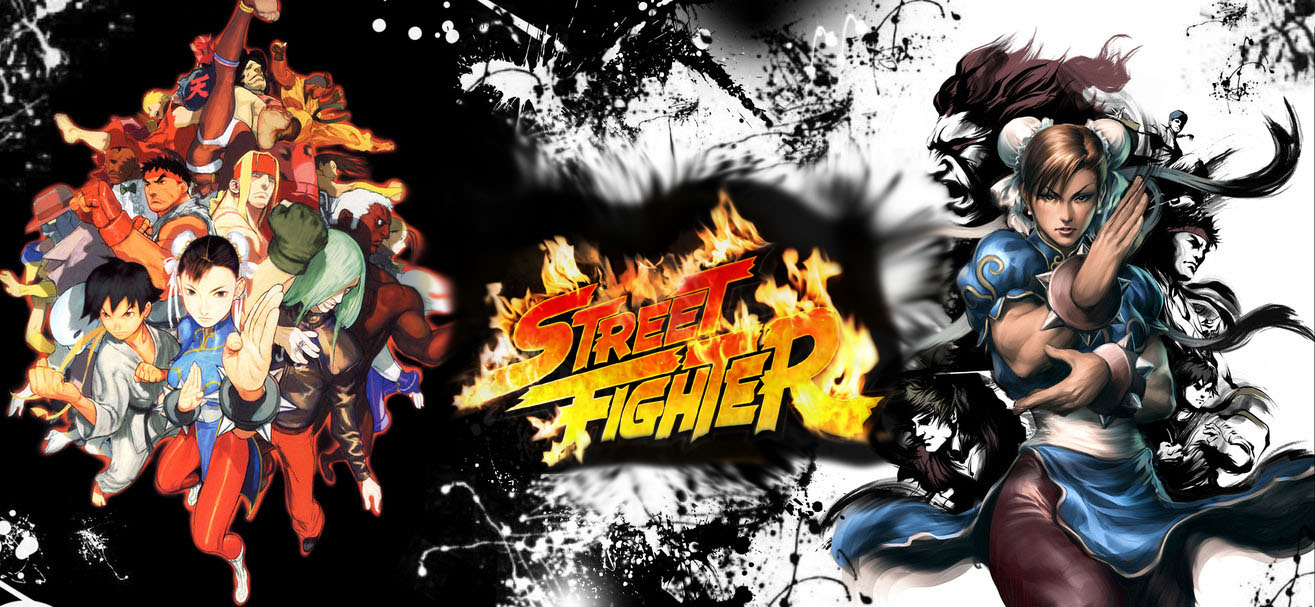
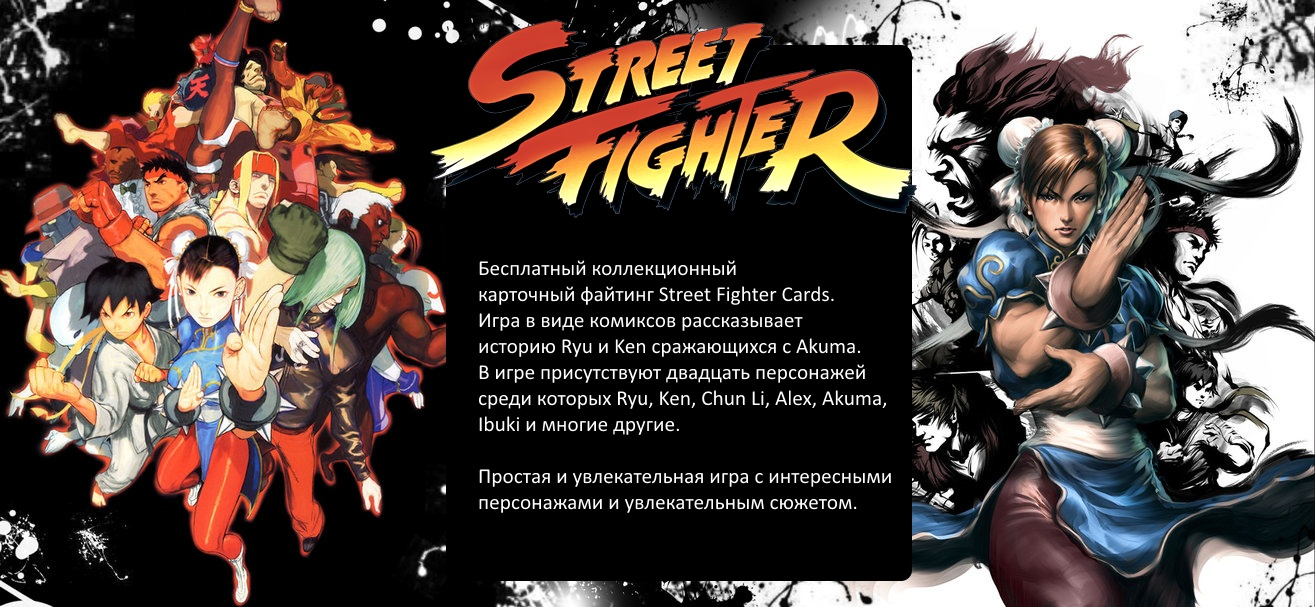
Изменён фон страницы Street Fighter Cards

diff --git a/streetfightercards/css/local.css b/streetfightercards/css/local.css
@@ -96,4 +96,6 @@ canvas {
 	top: 20px;
 	margin: auto;
 	left: 20%;
+	box-shadow: 0 0 15px rgba(0,0,0,0.5);
+	border: 4px double black;
 }
